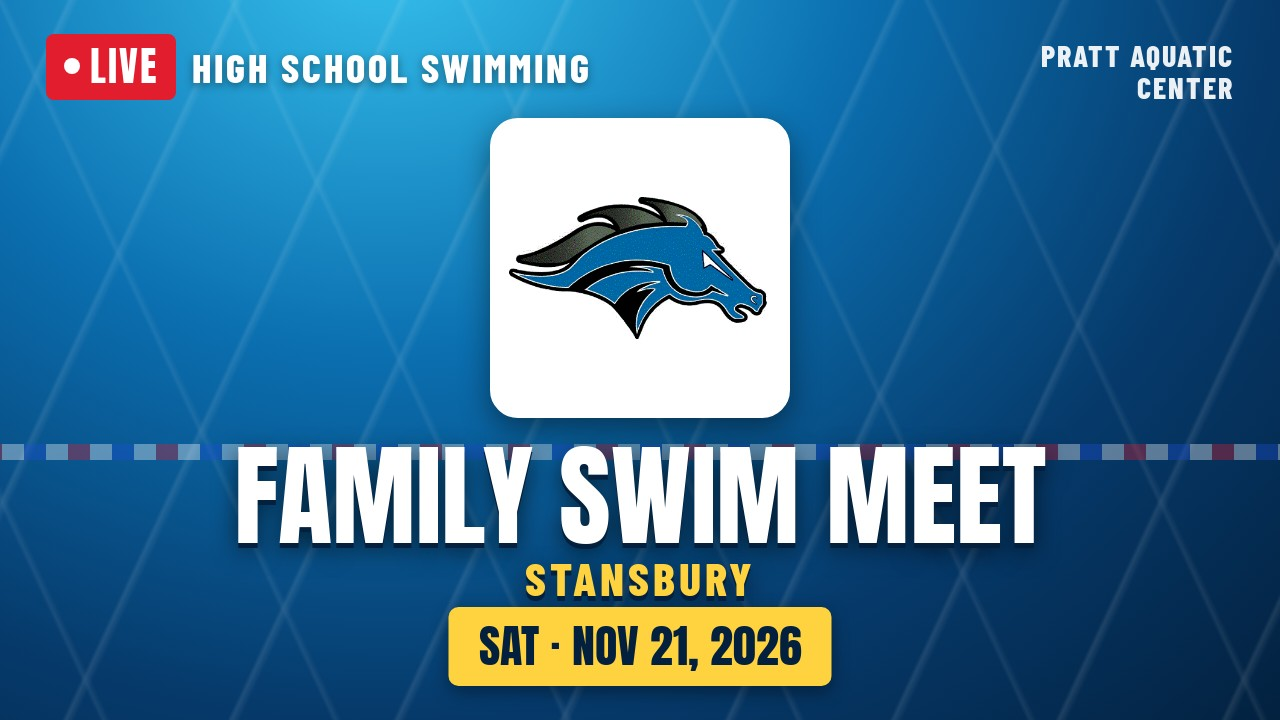
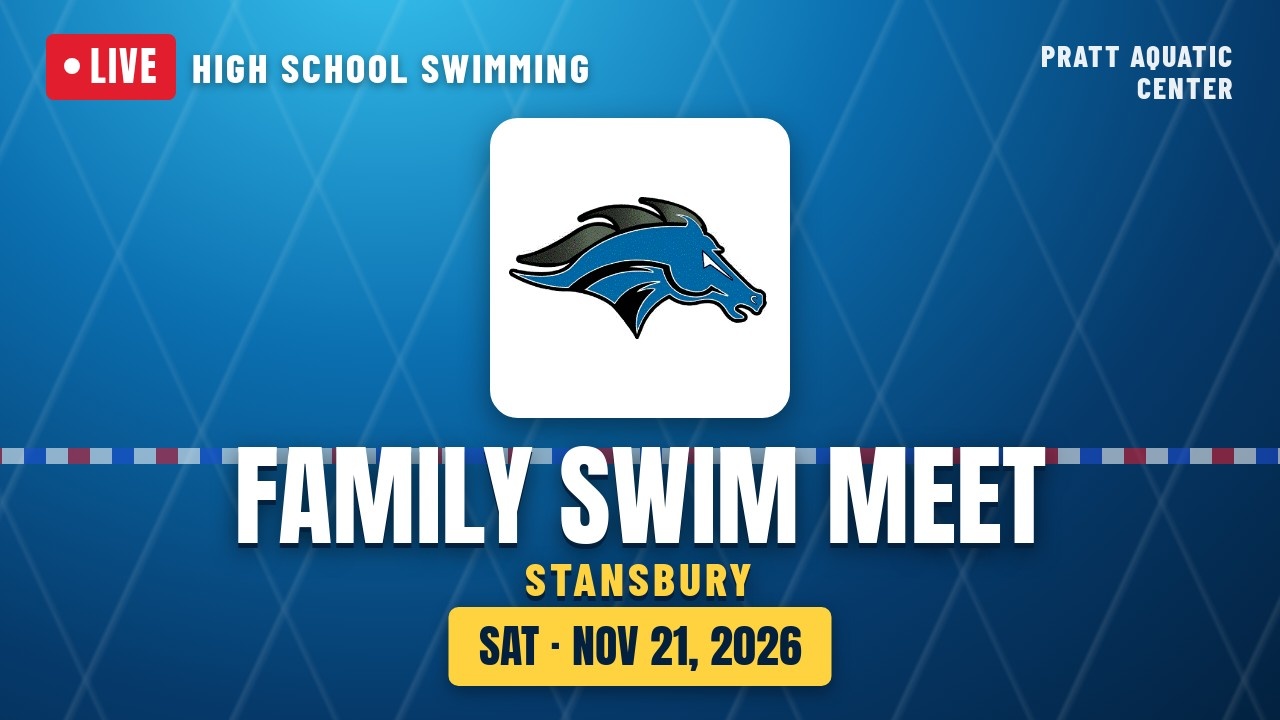
Quad: no @ (all four are home teams); lane rope placement
Claude-Session: https://claude.ai/code/session_015ddQdB4MUmMnFLo4eFxp9a

Changed region(s): [[0.4688, 0.6111, 1.0, 0.6722], [0.0, 0.6111, 0.4375, 0.6722]]

diff --git a/make.py b/make.py
@@ -75,15 +75,16 @@ def page(m):
     parts = []
     for i, t in enumerate(teams):
         if i:
-            parts.append('<div class="sep">%s</div>' % ("@" if (vis and i == n - 1) else "&" if vis else "·"))
+            quad = bool(big and "QUAD" in big)
+            parts.append('<div class="sep">%s</div>' % ("&" if quad else "@" if (vis and i == n - 1) else "&"))
         parts.append(tile(t, size))
     if not big:
         big = (" & ".join(vis) + " @ " + host)
     fs = 112 if len(big) <= 18 else 96 if len(big) <= 24 else 80 if len(big) <= 32 else 66
     subhtml = f'<span class="sub">{sub}</span>' if sub else ""
-    lane_y = 118 + size + 26
+    lane_y = max(118 + size + 30, 410)
     return f"""<!doctype html><html><head><meta charset="utf-8"><style>{CSS}</style></head><body>
-<div class="water"></div><div class="lane" style="top:{lane_y}px;opacity:.35"></div>
+<div class="water"></div><div class="lane" style="top:{lane_y}px;opacity:.55"></div>
 <div class="top"><div class="live"><i></i>LIVE</div><div class="kick">HIGH SCHOOL SWIMMING</div></div>
 <div class="venue">PRATT AQUATIC<br>CENTER</div>
 <div class="logos">{''.join(parts)}</div>
